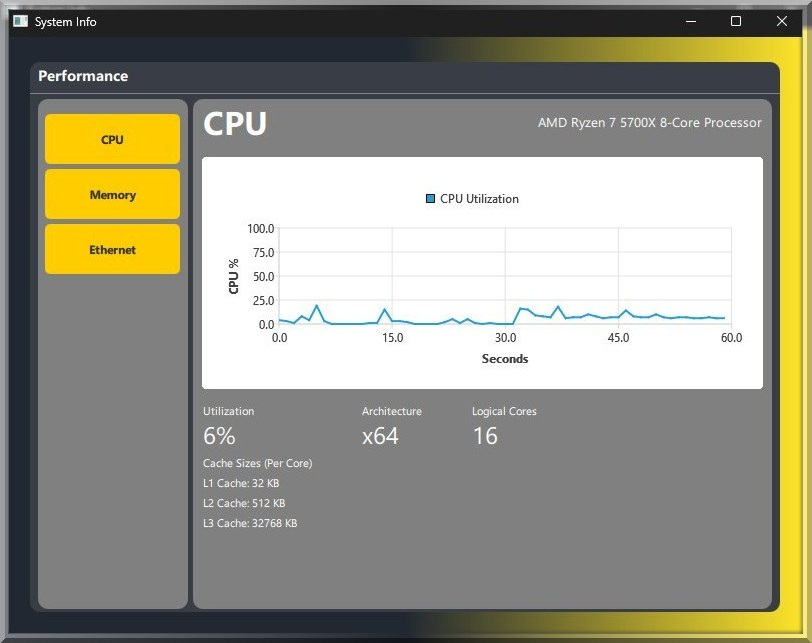
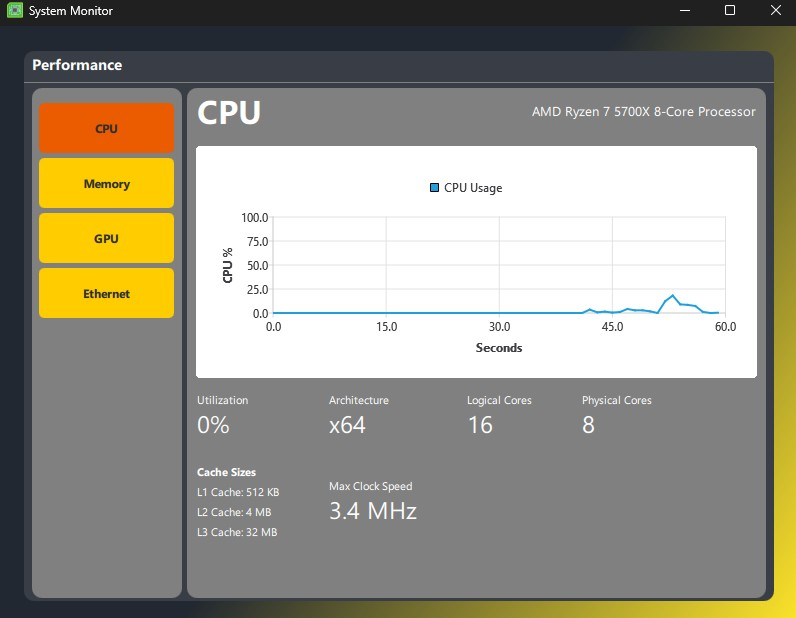
Update readme and docs

diff --git a/README.md b/README.md
@@ -1,5 +1,5 @@
 # System Info Monitor
-Made using Qt framework and C++. Doesn't use any other third party library like HWINFO. The idea behind this project was to learn QML and communication from C++ to QML frontend. 
+Made using Qt framework and C++. uses HWINFO to get hardward information about your system and display it.
 
 ## Features
 Three templated buttons on sidebar, which control the widget stack to display different Information about your usage in regards with CPU, Memory And Download.
@@ -9,11 +9,12 @@ Three templated buttons on sidebar, which control the widget stack to display di
 <div align="center">
     <img src="docs/cpu.jpg" alt="AppImage01" width="600"/>
     <img src="docs/memory.jpg" alt="AppImage01" width="600"/>
+    <img src="docs/gpu.jpg" alt="AppImage01" width="600"/>
     <img src="docs/download.jpg" alt="AppImage01" width="600"/>
 </div>
 
 ## Built With
 - **Language**: C++, QML
 - **Build System**: [CMake](https://cmake.org)
-- **Third Party**: Qt-Framework
+- **Third Party**: Qt-Framework, [HWINFO](https://github.com/lfreist/hwinfo)
 - **Platform**: Windows
